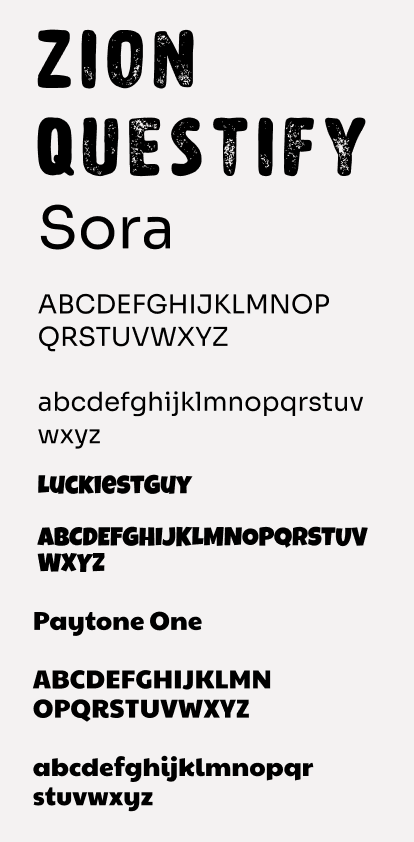
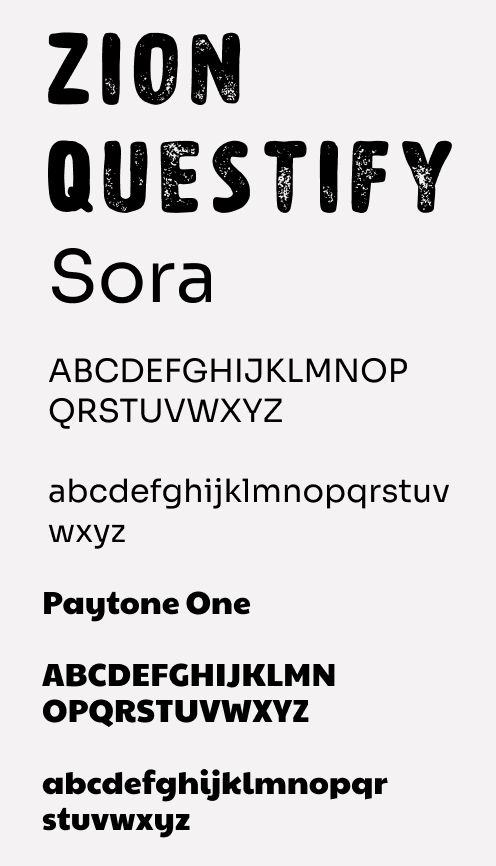
fixing typography

Changed region(s): [[0.087, 0.0309, 0.9275, 0.9881]]

diff --git a/style.html b/style.html
@@ -49,11 +49,10 @@
             <p>For the logo, we chose the "Zion" font as it captures adventure, ideal for Questify's playful and
                 educational exploration theme.
             </p>
-            <p>For the content of the app, we are using "Sora". The font offers readability and friendliness, enhancing
+            <p>For the content of the app, we are using "Sora". The font offers readability and use-friendliness as it is sans-serif, enhancing
                 user experience and app's inviting atmosphere.</p>
             <p>PaytoneOne's boldness enhances accessibility and usability, ensuring clarity and easy navigation for
                 important headings and menu text in the app.</p>
-            <P>LuckiestGuy font adds a playful touch, enhancing the fun and excitement on the score page.</P>
         </div>
         <div id="typography_right" class="typography_child">
             <img src="./images/font_styles.png" alt="typography">
@@ -78,17 +77,8 @@
         <div id="textsize">
 
             <div id="font_des">
-                <p>H1</p>
-                <p>36px</p>
-            </div>
-
-            <div id="heading1">
-                <p>Heading One</p>
-            </div>
-
-            <div id="font_des">
                 <p>H2</p>
-                <p>24px</p>
+                <p>20px Bold</p>
             </div>
 
             <div id="heading2">
@@ -97,7 +87,7 @@
 
             <div id="font_des">
                 <p>H3</p>
-                <p>20px</p>
+                <p>16px Bold</p>
             </div>
 
             <div id="heading3">
@@ -143,36 +133,7 @@
         </div>
     </div>
 
-    <div id="font_cont3">
-        <div id="typeface">
-
-            <div id="dialogue_font">
-                <h2>LuckiestGuy</h2>
-                <p>Scoreboard </p>
-            </div>
-
-            <div id="bold_font">
-                <p>ABCDEFGHIJKLMNOPQRSTUVWXYZ</p>
-                <p>abcdefghijklmnopqrstuvwxyz</p>
-            </div>
-        </div>
-
-        <div id="textsize">
-
-            <div id="font_des">
-                <p>H1</p>
-                <p>80px</p>
-            </div>
-
-            <div id="heading6">
-                <p>Heading One</p>
-            </div>
-        </div>
-    </div>
-
-        </div>
-
-    </div>
+    
 
 
     <div class="line"></div>

diff --git a/style.css b/style.css
@@ -84,12 +84,7 @@ main {
 	padding-left: 10%;
 }
 
-#logo_colour,
-#logo_bw {
-	display: flex;
-	justify-content: space-between;
-	align-items: center;
-}
+
 
 #main {
 	display: flex;
@@ -147,40 +142,19 @@ main {
 
 /* color html */
 
-#colour,
-#typography,
-#iconography,
-#graphics {
-	display: flex;
-	flex-direction: row;
-	justify-content: center;
-	padding: 20px;
-	margin-right: 20px;
-}
+
 
 .colour_child {
 	display: flex;
 }
 
-#colour img,
-#typography img,
-#graphics img,
-#type_rules img {
-	width: 100%;
-	height: 100%;
-	object-fit: cover;
-	overflow: hidden;
-}
+
 
 #colour_left img {
 	object-fit: contain;
 	overflow: auto;
 }
 
-.button-images {
-	display: grid;
-	grid-template-columns: auto;
-}
 
 .button-box {
 	margin-left: 50px;
@@ -189,6 +163,11 @@ main {
 .color-test {
 	width: 650px;
 	height: 230px;
+}
+
+.all-examples {
+	width: 700px;
+	height: 500px;
 }
 /* Reference html */
 
@@ -234,12 +213,6 @@ main {
 	color: black;
 }
 
-@font-face {
-	font-family: "LuckiestGuy";
-	src: url("/fonts/LuckiestGuy-Regular.ttf") format("truetype");
-	font-weight: normal;
-	font-style: normal;
-}
 
 @font-face {
 	font-family: "PaytoneOne";
@@ -262,22 +235,6 @@ main {
 	font-style: normal;
 }
 
-.p1 {
-	font-family: "LuckiestGuy";
-}
-
-.p2 {
-	font-family: "PaytoneOne";
-}
-
-.p3 {
-	font-family: "Sora";
-}
-
-.p4 {
-	font-family: "SoraBold";
-}
-
 #right {
 	width: 100%;
 	padding-left: 45%;
@@ -289,10 +246,6 @@ main {
 }
 
 /* typography css*/
-
-#typography_child, #icon_child, #graphics_child {
-    display: flex;
-}
 
 #typography_left {
 	width: 50%;
@@ -331,24 +284,6 @@ main {
 	margin-bottom: 70px;
 }
 
-#font_cont,
-#font_cont2,
-#font_cont3 {
-	display: flex;
-	flex-direction: row;
-	margin-left: 50px;
-	margin-top: 50px;
-	margin-bottom: 70px;
-}
-
-.all-examples {
-	width: 700px;
-	height: 500px;
-}
-
-.accessibility {
-	display: flex;
-}
 
 #font_cont2 {
     font-family: 'PaytoneOne', sans-serif;
@@ -393,18 +328,17 @@ main {
     width:500px;
 }
 
-#heading1 p {
-    font-size: 36px;
-    vertical-align: text-top;
-}
+
 
 #heading2 p {
-    font-size: 24px;
+    font-size: 20px;
+    font-weight: bold;
     vertical-align: text-top;
 }
 
 #heading3 p {
-    font-size: 20px;
+    font-size: 16px;
+    font-weight: bold;
     vertical-align: text-top;
 }
 
